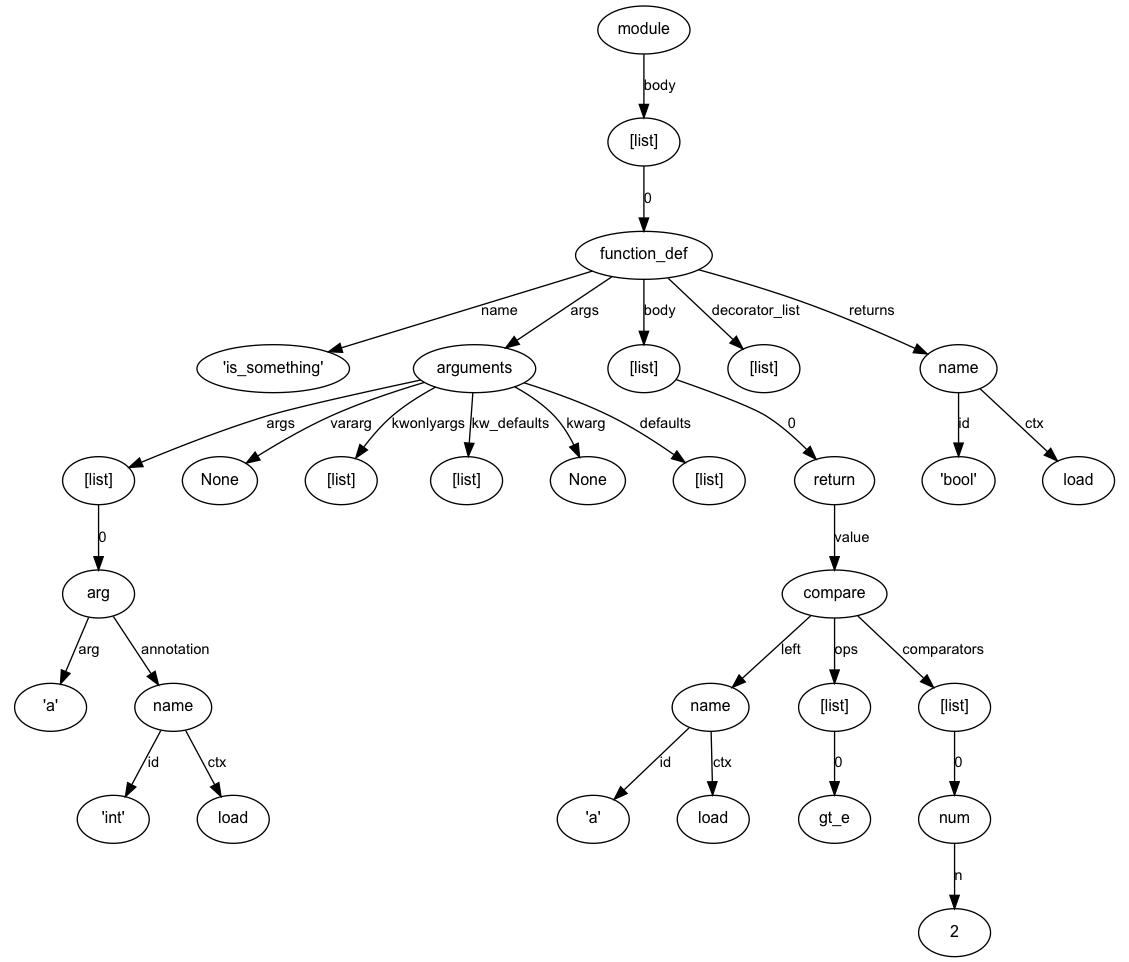
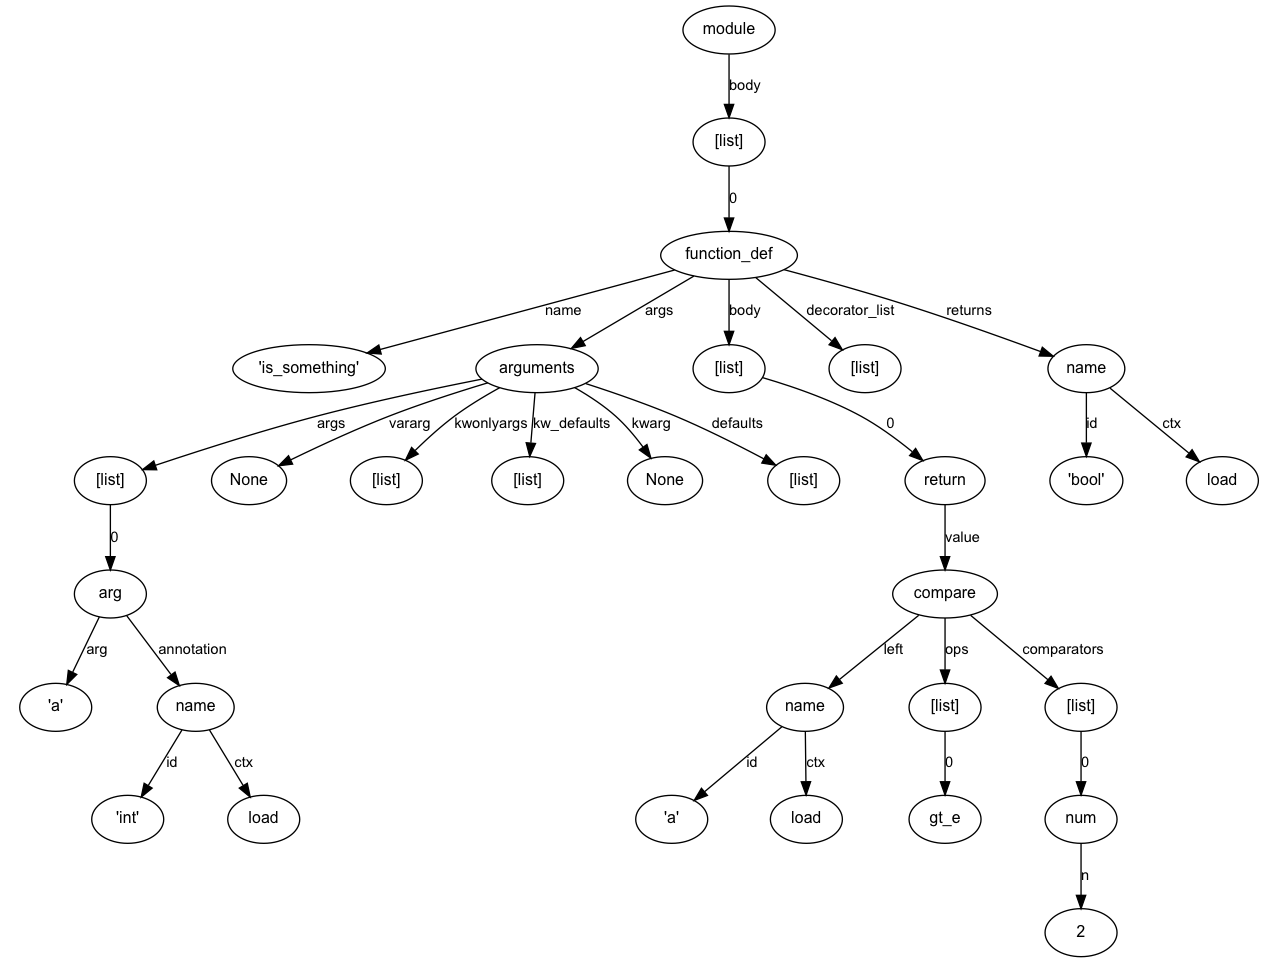
what it can do, metaclasses, minor clean-up

diff --git a/code_snippets/ch2_pylint_invokations/ex3_convention_refactor.py b/code_snippets/ch2_pylint_invokations/ex3_convention_refactor.py
@@ -1,0 +1,18 @@
+def whyDontuseCamelCase(argument):
+    return argument > 2
+
+
+def reallyComplexFunction(arg1, arg2, arg3, arg4, arg5):
+    """Fairly complicated function that returns arbitrary integer"""
+    some_value = whyDontuseCamelCase(arg1)
+    if some_value:
+        return some_value
+    if arg1:
+        if arg2 and arg3:
+            return 1
+        elif arg2 and not arg3:
+            return 2
+        return 3
+    elif arg4 and arg5:
+        return 4
+    return 5

diff --git a/code_snippets/ch2_pylint_invokations/ex1_errors.py b/code_snippets/ch2_pylint_invokations/ex1_errors.py
@@ -1,0 +1,18 @@
+# pylint: disable=R,C
+import sys
+
+
+def mispellings():
+    my_str = "Hello, PyGDA!"
+    print(my_st)  # misspelled variable
+    sys.stout.write(my_str)  # misspelled attribute
+
+
+def bad_except_order():
+    try:
+        return mispellings()
+    except ValueError:
+        pass
+    except UnicodeError:
+        # never reached, superclass is caught first
+        pass

diff --git a/code_snippets/ch2_pylint_invokations/ex2_warnings.py b/code_snippets/ch2_pylint_invokations/ex2_warnings.py
@@ -1,0 +1,13 @@
+# pylint: disable=R,C
+def mutable_default_arg(sequence=[]):
+    pass
+
+
+class Class:
+    def __init__(self, x):
+        self.x = x
+
+
+class Subclass(Class):
+    def __init__(self, x):
+        self.y = x + 1

diff --git a/code_snippets/ch3_checkers/1_ast_and_tokens/astvisualizer.py b/code_snippets/ch3_checkers/1_ast_and_tokens/astvisualizer.py
@@ -125,7 +125,7 @@ class GraphRenderer:
         # 'fontcolor': 'white',
         # 'bgcolor': '#333333',
         'margin': '0',
-        'ratio': '0.85'
+        'ratio': '0.75'
     }
 
     nodeattrs = {

diff --git a/SLIDES.md b/SLIDES.md
@@ -46,32 +46,119 @@ $ pylint my_package
 
 ---
 
-### Sample output:
-<small>
-<small>
+## What it can do?
+
+---
+
+#### Catch actual errors (ex1_errors.py)
+```python
+# pylint: disable=R,C
+import sys
+
+
+def mispellings():
+    my_str = "Hello, PyGDA!"
+    print(my_st)  # misspelled variable
+    sys.stout.write(my_str)  # misspelled attribute
+
+
+def bad_except_order():
+    try:
+        return func()
+    except ValueError:
+        pass
+    except UnicodeError:
+        # never reached, superclass is caught first
+        pass
+```
+
+###### Output
+```shell
+$ pylint ex1_errors.py 
+No config file found, using default configuration
+************* Module ex1_errors
+E:  8,10: Undefined variable 'my_st' (undefined-variable)
+E:  9, 4: Module 'sys' has no 'stout' member; maybe 'stdout'? (no-member)
+E: 17,11: Bad except clauses order (ValueError is an ancestor class of UnicodeError) (bad-except-order)
+```
+
+---
+
+#### Warn about common pitfalls
+```python
+# pylint: disable=R,C
+def mutable_default_arg(sequence=[]):
+    pass
+
+
+class Class:
+    def __init__(self, x):
+        self.x = x
+
+
+class Subclass(Class):
+    def __init__(self, x):
+        self.y = x + 1
+```
+
+###### Output
 
 ```shell
+$ pylint ex2_warnings.py 
 No config file found, using default configuration
-************* Module flow.graph
-C: 64, 0: Line too long (102/100) (line-too-long)
-C:164, 0: Wrong continued indentation (add 1 space).
-                                    isinstance(node.statement, ImplicitReturnStmt)), None)
-                                    ^| (bad-continuation)
-C:  1, 0: Missing module docstring (missing-docstring)
-C:  9, 0: Missing class docstring (missing-docstring)
-W: 21, 4: Useless super delegation in method '__init__' (useless-super-delegation)
-R: 20, 0: Too few public methods (0/2) (too-few-public-methods)
-W: 46, 0: Dangerous default value [] as argument (dangerous-default-value)
-W: 46,24: Unused argument 'ast_node' (unused-argument)
-R: 76, 4: Unnecessary "else" after "return" (no-else-return)
-W:132, 0: Dangerous default value [] as argument (dangerous-default-value)
-R:296, 4: Too many return statements (7/6) (too-many-return-statements)
-
-------------------------------------------------------------------
-Your code has been rated at 7.06/10 (previous run: 7.06/10, +0.00)
+************* Module ex2_warnings
+W:  2, 0: Dangerous default value [] as argument (dangerous-default-value)
+W:  2,24: Unused argument 'sequence' (unused-argument)
+W: 12, 4: __init__ method from base class 'Class' is not called (super-init-not-called)
 ```
-</small>
-</small>
+
+---
+
+#### Enforce code style (e.g. naming convention, docstrings, code complexity)
+```python
+def whyDontuseCamelCase(argument):
+    return argument > 2
+
+
+def reallyComplexFunction(arg1, arg2, arg3, arg4, arg5):
+    """Fairly complicated function that returns arbitrary integer"""
+    some_value = whyDontuseCamelCase(arg1)
+    if some_value:
+        return some_value
+    if arg1:
+        if arg2 and arg3:
+            return 1
+        elif arg2 and not arg3:
+            return 2
+        return 3
+    elif arg4 and arg5:
+        return 4
+    return 5
+```
+
+---
+
+###### Code style: output
+```shell
+$ pylint --load-plugins=pylint.extensions.mccabe --max-complexity=5 ex3_convention_refactor.py
+No config file found, using default configuration
+************* Module ex3_convention_refactor
+C:  1, 0: Missing module docstring (missing-docstring)
+R:  5, 0: 'reallyComplexFunction' is too complex. The McCabe rating is 6 (too-complex)
+C:  1, 0: Invalid function name "whyDontuseCamelCase" (invalid-name)
+C:  1, 0: Missing function docstring (missing-docstring)
+C:  5, 0: Invalid function name "reallyComplexFunction" (invalid-name)
+```
+
+---
+
+#### Using Pylint - summary
+- Fully configurable, all checks may be explicitly disabled / enabled (globally for project, locally for module, code block or individual statement) 
+- Some of checks (e.g. naming convention) are parametrized and may be adjusted to accommodate for your project rules
+
+#### Is this all?
+- I'm not here to tell about _how to use_ Pylint.
+- Let's dive into implementation!
 
 ---
 
@@ -79,13 +166,14 @@ Your code has been rated at 7.06/10 (previous run: 7.06/10, +0.00)
 
 ---
 
-#### Definition
-Checkers implement code verification logic. 
+## Checker
+Checker implements code verification logic. 
 
 - pluggable architecture (new checker is a `BaseChecker` subclass, registered in linter before analysis start)
 - exact API depends on type of checks checker performs
 
-#### Two groups of checkers:
+
+### Two groups of checkers:
 - token-based checkers
 - AST-based checkers
 
@@ -120,8 +208,6 @@ with open(module_name) as fh:
 
 ###### Output
 
-<small>
-
 ```python
 TokenInfo(type=1 (NAME), string='def', start=(1, 0), end=(1, 3), line='def is_something(a: int) -> bool:\n')
 TokenInfo(type=1 (NAME), string='is_something', start=(1, 4), end=(1, 16), line='def is_something(a: int) -> bool:\n')
@@ -143,7 +229,6 @@ TokenInfo(type=4 (NEWLINE), string='\n', start=(2, 17), end=(2, 18), line='    r
 TokenInfo(type=6 (DEDENT), string='', start=(3, 0), end=(3, 0), line='')
 TokenInfo(type=0 (ENDMARKER), string='', start=(3, 0), end=(3, 0), line='')
 ```
-</small>
 
 ---
 
@@ -160,7 +245,7 @@ Each token has some some basic data associated with themselves:
 
 ---
 
-#### Checker API
+#### Token Checker API
 ```python
 from pylint.checkers import BaseChecker
 
@@ -216,25 +301,9 @@ with open(module_name) as fh:
 - invokes `visit_{nodeclass}` method
 - those method acts accordingly based on visited nodes
 
-```python
-from pylint.checkers import BaseChecker
-
-class IterableChecker(BaseChecker):
-    @check_messages('not-an-iterable')
-    def visit_for(self, node):
-        self._check_iterable(node.iter)
-
-    @check_messages('not-an-iterable', 'not-a-mapping')
-    def visit_call(self, node):
-        for stararg in node.starargs:
-            self._check_iterable(stararg.value)
-        for kwarg in node.kwargs:
-            self._check_mapping(kwarg.value)
-```
-
 ---
 
-#### Example
+#### Check example
 ###### bad_super_call.py
 ```python
 class MyClass(object):
@@ -253,21 +322,20 @@ class DerivedClass2(MyClass):
         super(self.__class__, self).__init__()
         self.x = 2
 ```
+
 - Invalid when `DerivedClass1` or `DerivedClass2` is subclassed!
 - Infinite recursion on instantiation of subclass
 
 ---
 
 #### Let's implement a checker for this case!
-Algorithm:
-1. When `FunctionDef` node is visited
-2. And this node is a method
-3. Find all `Call` nodes that belong to this method
-4. If called function is a `Name` node and it's value is `"super"`
-5. Check first argument of called function:
-   * If first argument is `Call` node and called function is a `Name` with value `"type"` and it's single argument is first argument of method (`self`) or 
+1. When `FunctionDef` node is visited (and node is a method)
+2. Find all `Call` nodes that belong to this method
+3. If called node is a `Name` node and it's value is `"super"`
+4. Check first argument of called function:
+   * If first argument is `Call` node and called node is a `Name` with value `"type"` and it's single argument is first argument of method (`self`) or 
    * If first argument is an `Attribute` access, where accessed member is `__class__` and object is first argument of method (`self`)
-6. Emit a message
+5. Emit a message
 
 [Code essentially does the same operation as pseudocode above](https://github.com/PyCQA/pylint/blob/master/pylint/checkers/newstyle.py#L103) - you have to trust me on this one.
 
@@ -287,6 +355,7 @@ Algorithm:
 ### Problem statement
 - both token-based and AST-based checkers knows only about structure of the source code (token-based: how the code was written, AST-based: how the code was parsed)
 - it’s desirable to have actual knowledge about execution (*without* running the code)
+
 ### Solution
 - astroid (AST on steroids) - [PyCQA/astroid: A common base representation of python source code for pylint and other projects](https://github.com/PyCQA/astroid)
 
@@ -418,7 +487,7 @@ print(e_class.mro())
 
 ---
 
-#### Metaclasses
+### Metaclasses
 ###### mcs_demo.py
 ```python
 class Meta(type):  #@
@@ -430,8 +499,6 @@ class A:  #@
 class B(metaclass=Meta): #@
     pass
 ```
-
----
 
 ###### run_mcs_demo.py
 ```python
@@ -451,7 +518,7 @@ assert b_clsdef.metaclass() is meta_clsdef
 It's known that most of Python syntax is sugar over _dunder methods_.
 When we can understand MRO and metaclasses of inspected instance, we can easily do look-up of correct dunder method for inference purposes.
 
-- Boolean statements (`and`, `or` and `nor`): `__bool__` (Python 3.x) / `__nonzero__` (Python 2.x)
+- Boolean statements (`and`, `or` and `not`): `__bool__` (Python 3.x) / `__nonzero__` (Python 2.x)
 - Binary operations: (`&`, `|`, `%` etc.): `__and__`, `__or__`, `__mod__` etc.
 - Indexing: `__getitem__` (including support for slices)
 - Context managers: `__enter__`, `__exit__`
@@ -554,14 +621,14 @@ List.list(ctx=None,
 
 #### Understanding language constructs - summary
 - In-depth understanding of Python execution model
-- Helps a lot with catching errors
+- Better understanding means more possibilites for catching code errors
 
 ---
 
 ### Transforms, `astroid.brain`
 - Interpreter core code is implemented in C - no source code to even start reasoning about inference
-- Fancy code, even if implemented in Python, is also really tricky to infer 
-- We need handcrafted set of rules to improve inference engine
+- Fancy code, even if implemented in Python, is also difficult to infer 
+- We use handcrafted set of rules to improve inference engine
 - Two ways of doing it:
   - custom inference tips
   - node transforms
@@ -577,7 +644,7 @@ MANAGER.register_transform(node_class,
 
 ### Custom inference tips
 - _quasi_ node transform - it sets internal attribute on AST node
-- this attribute is later on used for inferring actual values
+- this attribute is later used for inferring actual values
 
 ```python
 def inference_tip(infer_function):
@@ -618,7 +685,7 @@ def infer_bool(node, context=None):
 ---
 
 ### Node transforms
-- modification of AST, which actually modifies output tree
+- mutation of AST, which actually modifies final tree
 - handcrafted rules for "tricky" modules (`enum`, `namedtuple`, `six`, `typing` to name a few)
 - example: add extra names to module scope (if namespace is populated dynamically)
 
@@ -665,10 +732,12 @@ for value in node.infer():
 Const.NoneType(value=None)
 Const.int(value=6)
 ```
+
 ###### Observations
-- We know value passed to function; this value is `False` in boolean context, therefore `if` branch is not taken
+- We know value passed to function; this value is `3` which is `True` in boolean context, therefore `if` branch is not taken
 - Even in this simple example we are still deducing that return value *may possibly* be `None` (even though it's not possible)
 - Important when flow control statements are used (conditionals, exceptions, `continue`/`break` on loops etc.)
+
 ###### Conclusions
 - As of today, Pylint default config would avoid to emit warnings in case of ambiguity
 - Workaround, not a solution...
@@ -767,8 +836,8 @@ globals().update(Flag.__members__) # (!!!)
 
 ---
 
-# Acknowledges
-- **Krzysztof Czapla** - review, lots of valuable comments
+# Acknowledges (alphabethical order)
+- [**Krzysztof Czapla**](https://github.com/kczapla) - slides review, lots of valuable comments
 
 ---
 
